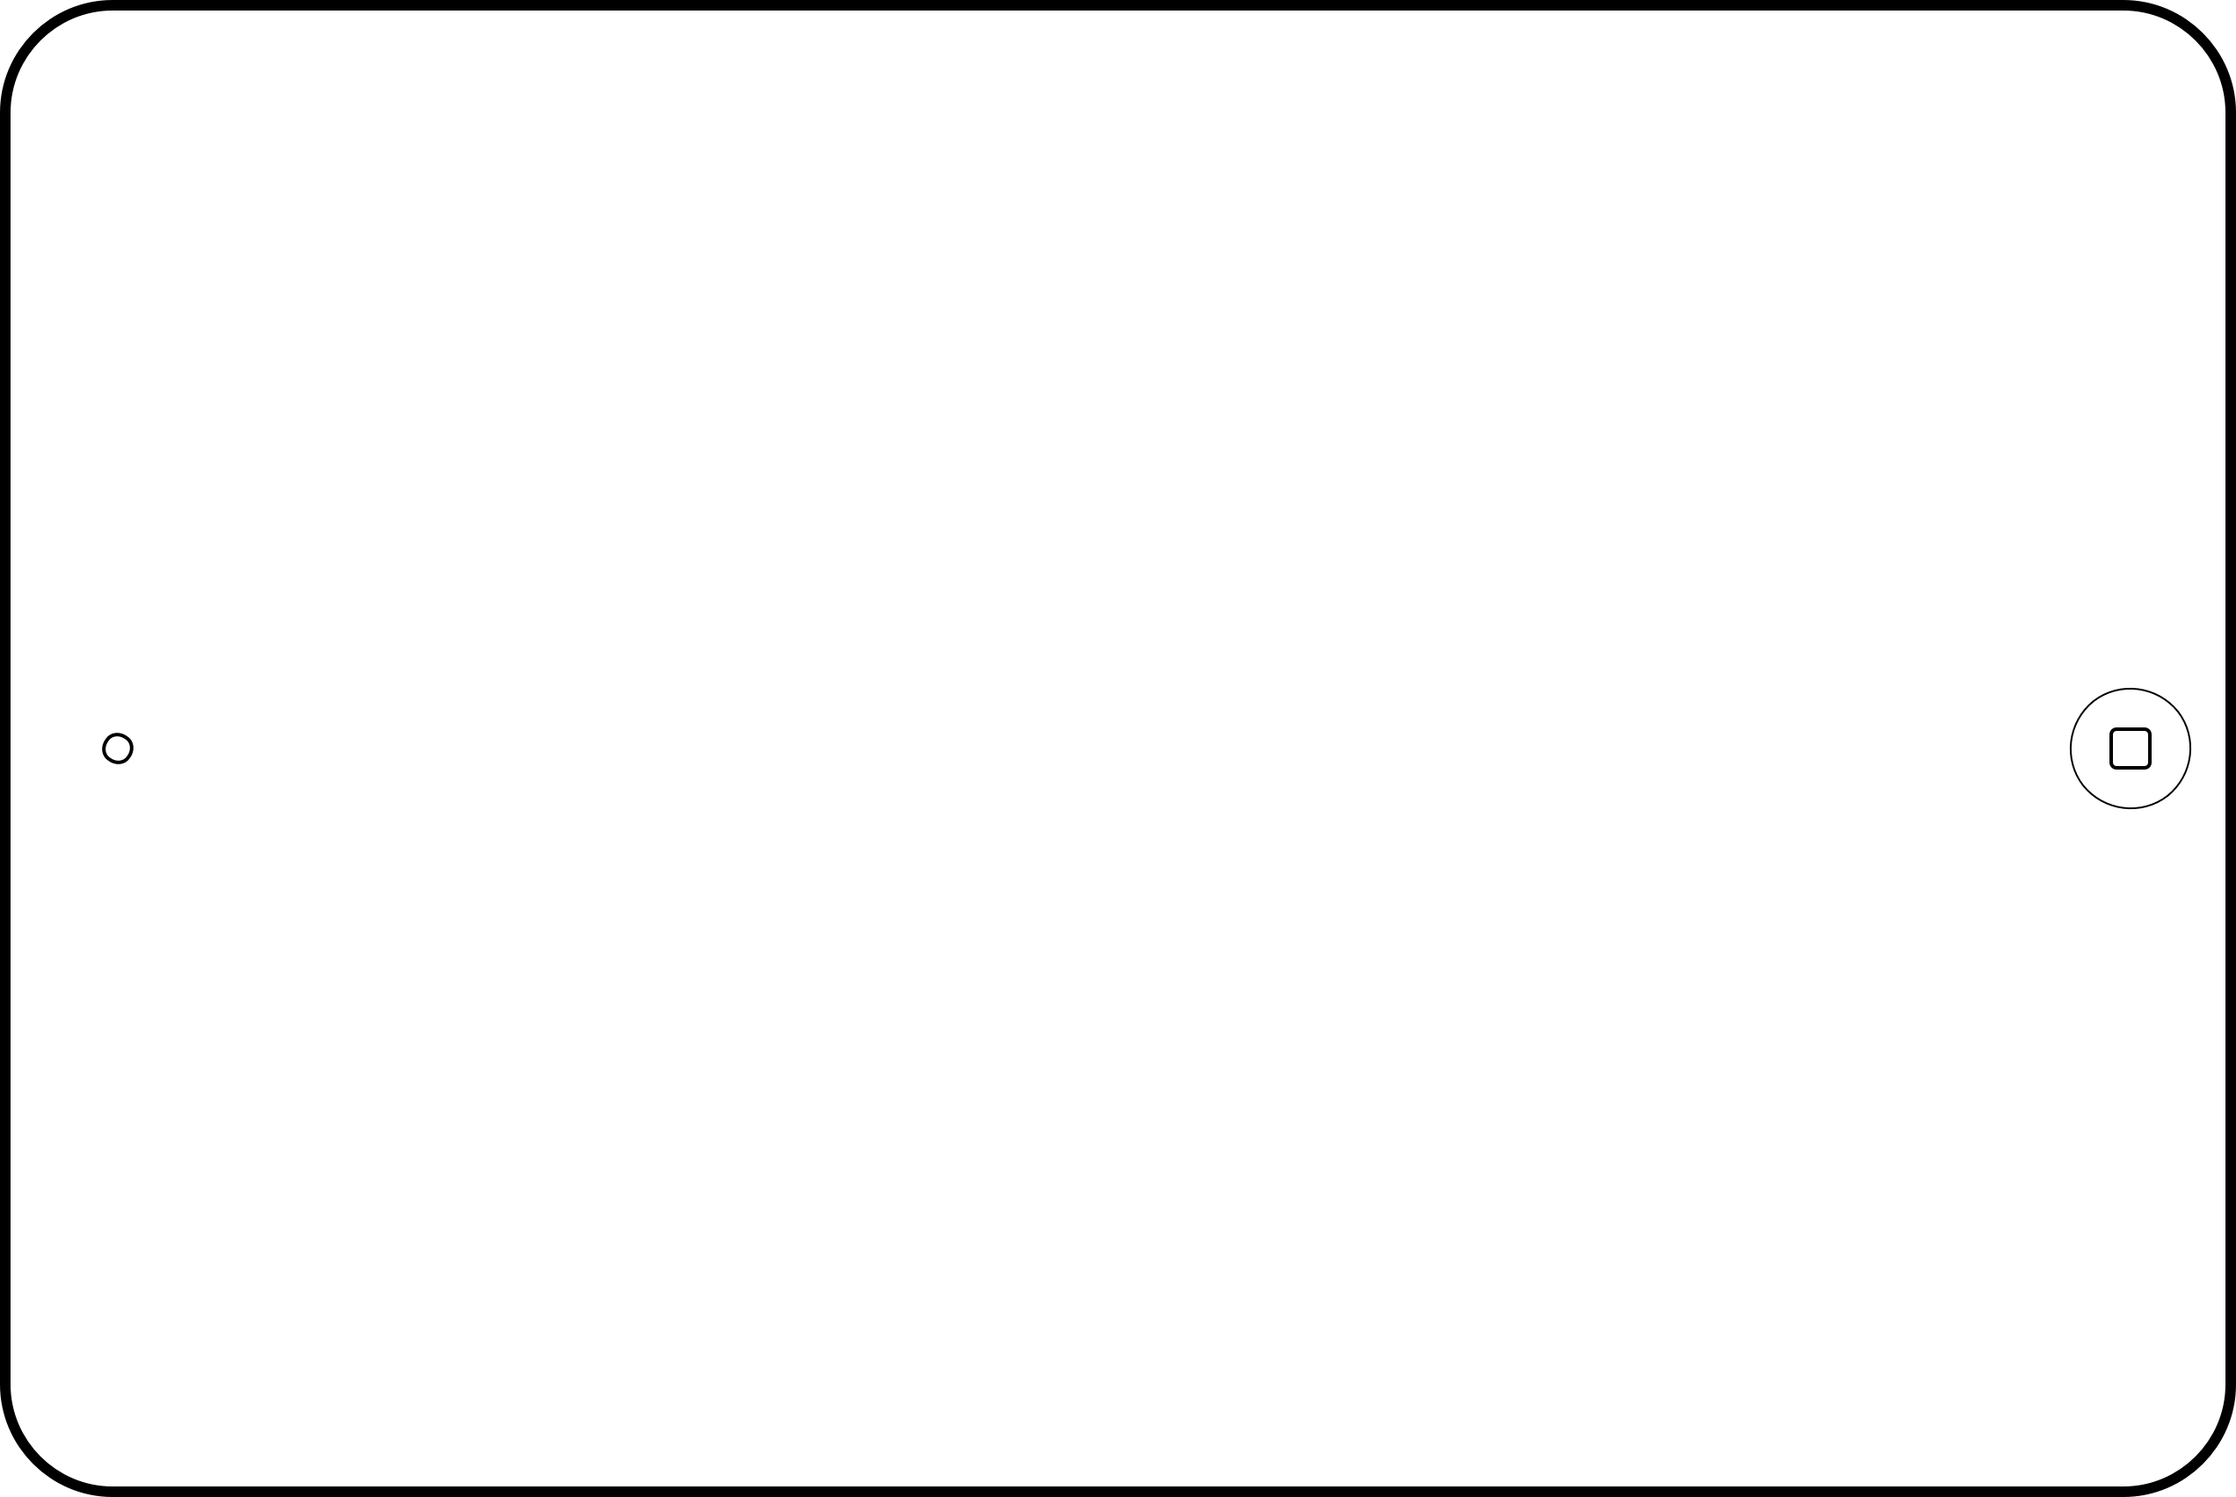
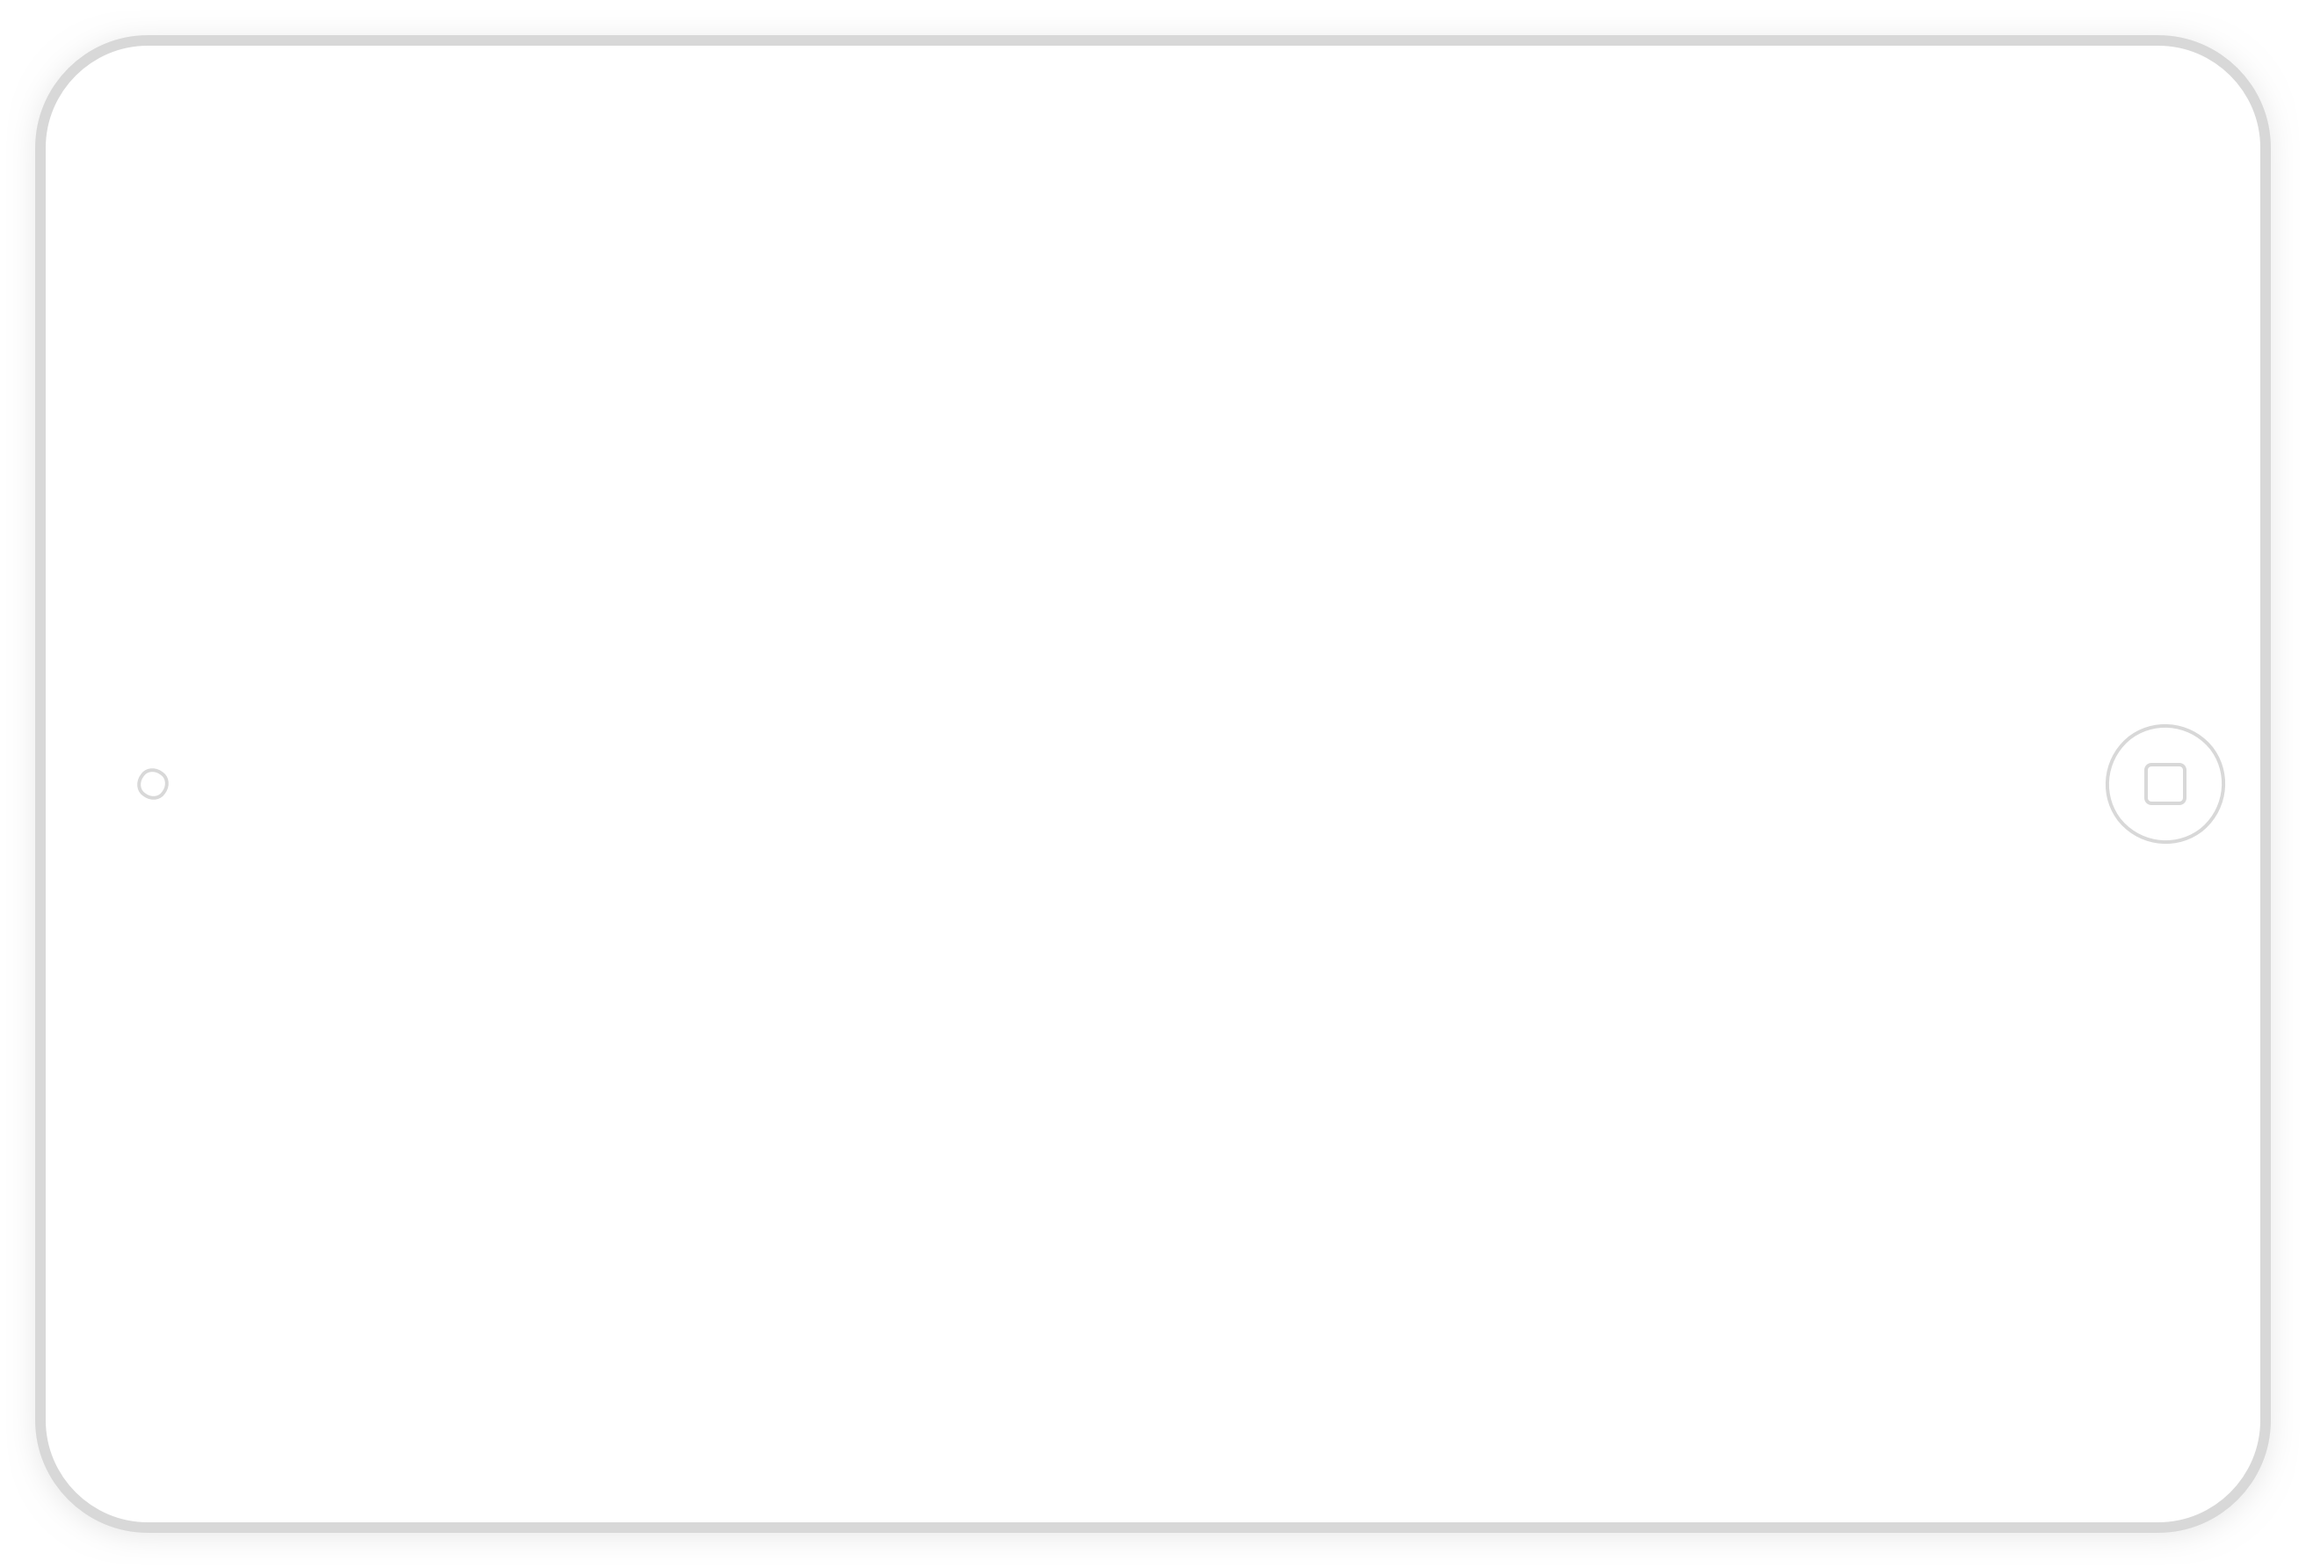
Update the device outlines

Changed region(s): [[0.0, 0.0, 1.0, 1.0]]

diff --git a/compiled/styles.css b/compiled/styles.css
@@ -637,7 +637,7 @@ figure.screenshot img {
   right: 0;
   z-index: 2;
   border-radius: 1px;
-  border: 2px solid #333;
+  border: 2px solid #444;
   margin: -2px;
 }
 figure.screenshot.ipad {
@@ -647,14 +647,14 @@ figure.screenshot.ipad {
 }
 figure.screenshot.ipad:before {
   padding-top: 75%;
-  margin-top: 4.1015625%;
-  margin-bottom: 4.1015625%;
+  margin-top: 6.0546875%;
+  margin-bottom: 6.0546875%;
 }
 figure.screenshot.ipad:after {
-  top: -5.46875%;
-  left: -12.109375%;
-  width: 124.21875%;
-  height: 110.9375%;
+  top: -8.07291667%;
+  left: -14.0625%;
+  width: 128.125%;
+  height: 116.14583333%;
   background: no-repeat url(../assets/graphics/iPad.png) 0 0;
   background-size: 100%;
 }
@@ -662,15 +662,15 @@ figure.screenshot.iphone {
   max-width: 320px;
 }
 figure.screenshot.iphone:before {
-  margin-top: 36.5625%;
-  margin-bottom: 34.375%;
+  margin-top: 42.8125%;
+  margin-bottom: 40.625%;
   padding-top: 177.5%;
 }
 figure.screenshot.iphone:after {
-  top: -20.59859155%;
-  left: -9.6875%;
-  width: 118.4375%;
-  height: 139.96478873%;
+  top: -24.11971831%;
+  left: -15.9375%;
+  width: 130.9375%;
+  height: 147.00704225%;
   background: no-repeat url(../assets/graphics/iPhone.png) 0 0;
   background-size: 100%;
 }

diff --git a/assets/styles/main.less b/assets/styles/main.less
@@ -203,7 +203,7 @@ figure {
 			right: 0;
 			z-index: 2;
 			border-radius: 1px;
-			border: 2px solid #333;
+			border: 2px solid #444;
 			margin: -2px;
 		}
 		
@@ -211,12 +211,12 @@ figure {
 			@width: 1024px;
 			@height: 768px;
 			
-			@-top: 42px;
+			@-top: 62px;
 			@-bottom: @-top;
-			@-left: 124px;
+			@-left: 144px;
 			@-right: @-left;
-			@-width: 1272px;
-			@-height: 852px;
+			@-width: 1312px;
+			@-height: 892px;
 			
 			max-width: @width;
 			margin-left: -4.5%;
@@ -242,12 +242,12 @@ figure {
 			@width: 320px;
 			@height: 568px;
 			
-			@-top: 117px;
-			@-bottom: 110px;
-			@-left: 31px;
-			@-right: 28px;
-			@-width: 379px;
-			@-height: 795px;
+			@-top: 137px;
+			@-bottom: 130px;
+			@-left: 51px;
+			@-right: 48px;
+			@-width: 419px;
+			@-height: 835px;
 			
 			max-width: @width;
 			
